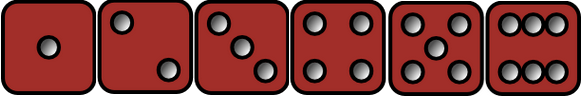
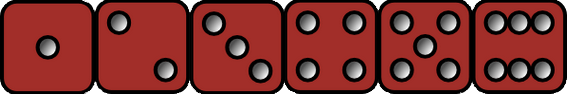
ahdf

diff --git a/catanui/Board.java b/catanui/Board.java
@@ -17,7 +17,30 @@ public class Board extends JFrame {
         //setLayout(new BoxLayout(getContentPane(), BoxLayout.X_AXIS));
         setLayout(null);
         
-        SideBar sd = new SideBar(gameLogic);
+        BoardObject.images.put(BoardObject.type.WHEAT, Toolkit.getDefaultToolkit().getImage("catanui/wheatcard.png"));
+        BoardObject.images.put(BoardObject.type.WOOD, Toolkit.getDefaultToolkit().getImage("catanui/woodcard.png"));
+        BoardObject.images.put(BoardObject.type.ORE, Toolkit.getDefaultToolkit().getImage("catanui/orecard.png"));
+        BoardObject.images.put(BoardObject.type.SHEEP, Toolkit.getDefaultToolkit().getImage("catanui/sheepcard.png"));
+        BoardObject.images.put(BoardObject.type.BRICK, Toolkit.getDefaultToolkit().getImage("catanui/brickcard.png"));
+        BoardObject.images.put(BoardObject.type.DEV, Toolkit.getDefaultToolkit().getImage("catanui/devcard.png"));
+	BoardObject.images.put(BoardObject.type.DICE, Toolkit.getDefaultToolkit().getImage("catanui/dice.png"));
+
+		BoardObject.coloredImages.put(BoardObject.type.SETTLEMENT, new Image[]{Toolkit.getDefaultToolkit().getImage("catanui/settlement_blue.png"),Toolkit.getDefaultToolkit().getImage("catanui/settlement_red.png"),Toolkit.getDefaultToolkit().getImage("catanui/settlement_green.png"),Toolkit.getDefaultToolkit().getImage("catanui/settlement_cyan.png"),Toolkit.getDefaultToolkit().getImage("catanui/settlement_yellow.png"),Toolkit.getDefaultToolkit().getImage("catanui/settlement_orange.png")});
+
+		BoardObject.coloredImages.put(BoardObject.type.CITY, new Image[]{Toolkit.getDefaultToolkit().getImage("catanui/city_blue.png"),Toolkit.getDefaultToolkit().getImage("catanui/city_red.png"),Toolkit.getDefaultToolkit().getImage("catanui/city_green.png"),Toolkit.getDefaultToolkit().getImage("catanui/city_cyan.png"),Toolkit.getDefaultToolkit().getImage("catanui/city_yellow.png"), Toolkit.getDefaultToolkit().getImage("catanui/city_orange.png")});
+       
+	MediaTracker tracker = new MediaTracker(this);
+	tracker.addImage(BoardObject.images.get(BoardObject.type.DICE),0);
+	for (BoardObject.type t : BoardObject.cardtypes) {
+		tracker.addImage(BoardObject.images.get(t),0);
+	}
+	try {
+		tracker.waitForAll();
+	} catch (InterruptedException ex) {
+		System.out.println("Non-fatal error loading images.");
+	}
+
+	        SideBar sd = new SideBar(gameLogic);
         sd.setSize(200,700); 
         
         MapPanel mp = new MapPanel(gameLogic);
@@ -52,20 +75,8 @@ public class Board extends JFrame {
         add(sd);
         add(cb);
         add(mp);
-        
-        
-        BoardObject.images.put(BoardObject.type.WHEAT, Toolkit.getDefaultToolkit().getImage("catanui/wheatcard.png"));
-        BoardObject.images.put(BoardObject.type.WOOD, Toolkit.getDefaultToolkit().getImage("catanui/woodcard.png"));
-        BoardObject.images.put(BoardObject.type.ORE, Toolkit.getDefaultToolkit().getImage("catanui/orecard.png"));
-        BoardObject.images.put(BoardObject.type.SHEEP, Toolkit.getDefaultToolkit().getImage("catanui/sheepcard.png"));
-        BoardObject.images.put(BoardObject.type.BRICK, Toolkit.getDefaultToolkit().getImage("catanui/brickcard.png"));
-        BoardObject.images.put(BoardObject.type.DEV, Toolkit.getDefaultToolkit().getImage("catanui/devcard.png"));
 
 
-		BoardObject.coloredImages.put(BoardObject.type.SETTLEMENT, new Image[]{Toolkit.getDefaultToolkit().getImage("catanui/settlement_blue.png"),Toolkit.getDefaultToolkit().getImage("catanui/settlement_red.png"),Toolkit.getDefaultToolkit().getImage("catanui/settlement_green.png"),Toolkit.getDefaultToolkit().getImage("catanui/settlement_cyan.png"),Toolkit.getDefaultToolkit().getImage("catanui/settlement_yellow.png"),Toolkit.getDefaultToolkit().getImage("catanui/settlement_orange.png")});
-
-		BoardObject.coloredImages.put(BoardObject.type.CITY, new Image[]{Toolkit.getDefaultToolkit().getImage("catanui/city_blue.png"),Toolkit.getDefaultToolkit().getImage("catanui/city_red.png"),Toolkit.getDefaultToolkit().getImage("catanui/city_green.png"),Toolkit.getDefaultToolkit().getImage("catanui/city_cyan.png"),Toolkit.getDefaultToolkit().getImage("catanui/city_yellow.png"), Toolkit.getDefaultToolkit().getImage("catanui/city_orange.png")});
-       
         setSize(1000, 722);
         setResizable(false);
         setDefaultCloseOperation(EXIT_ON_CLOSE);

diff --git a/catanui/MapPanel.java b/catanui/MapPanel.java
@@ -38,7 +38,7 @@ public class MapPanel extends JPanel implements MouseListener, MouseMotionListen
     int[] intervalSide = new int[]{(int)(radius/2),radius};
     int rings;
     private final int[] DIE_DIST = {2,3,4,4,5,5,5,6,6,8,8,9,9,9,10,10,11,12};
-    private BufferedImage diceImage = Toolkit.getDefaultToolkit().getImage("catanui/dice.png");
+    private BufferedImage diceImage;
     //Robot r;
 
     private ClientGameBoard gameLogic;
@@ -52,13 +52,12 @@ public class MapPanel extends JPanel implements MouseListener, MouseMotionListen
 	vertexContents = new HashMap<CoordPair,Pair>();
 	roadContents = new HashMap<Pair,Integer>();
         
-	/*try {
-            r = new Robot();
-        } catch (AWTException ex) {
-	    System.out.println("Robot no work.");
-        }*/
+	diceImage = new BufferedImage(582, 98, BufferedImage.TYPE_INT_ARGB);
+    	Graphics2D g = diceImage.createGraphics();
+    	g.drawImage(BoardObject.images.get(BoardObject.type.DICE), null, null);
+	g.dispose();
+
         rings = gameLogic.getNumRings();
-        
 	
 	hexleft = 100 - (int)(radius+(Math.floor(rings/2)*radius+Math.floor((rings-1)/2)*radius*2));
 	if (rings%2==0) {
@@ -72,7 +71,7 @@ public class MapPanel extends JPanel implements MouseListener, MouseMotionListen
 	HashMap<Pair,Pair> hexData = gameLogic.getHexInfo(); // call the gamelogic
 	
 	Pair currCoord = gameLogic.getStartPoint();
-	System.out.println(currCoord);
+
 	Pair topCoord = currCoord;
 
 	int ring = 0;
@@ -197,14 +196,16 @@ public class MapPanel extends JPanel implements MouseListener, MouseMotionListen
 		}
 	
 		g.setColor(Color.GRAY);
-		g.fill(new Rectangle(0,0,100,100));
+		g.fill(new Rectangle(0,0,110,60));
 		g.setColor(Color.LIGHT_GRAY);
-		g.fill(new Rectangle(10,10,80,80));
+		g.fill(new Rectangle(3,3,104,56));
 		if (_dieRoll > 0) {
 		    int r1 = (int)Math.max(Math.floor(Math.random()*Math.min(_dieRoll-1,5))+1,_dieRoll-6);
 		    int r2 = _dieRoll - r1;
-			BufferedImage r1img = diceImage.getSubImage((r1-1)*86,0,86,98);
-			BufferedImage r2img = diceImage.getSubImage((r2-1)*86,0,86,98);
+			BufferedImage r1img = diceImage.getSubimage((int)(Math.floor((r1-1)*94.7)),0,95,94);
+			g.drawImage(r1img,5,7,48,47,null);
+			BufferedImage r2img = diceImage.getSubimage((int)(Math.floor((r2-1)*94.7)),0,95,94);
+			g.drawImage(r2img,55,7,48,47,null);
 		}
         
         if (_up != null)

diff --git a/catanui/ChatBar.java b/catanui/ChatBar.java
@@ -14,7 +14,7 @@ import gamelogic.*;
  *
  * @author jfedor
  */
-public class ChatBar extends JPanel implements MouseListener, MouseMotionListener, ActionListener {
+public class ChatBar extends JPanel implements MouseListener, MouseMotionListener, MouseWheelListener, ActionListener {
     
     int _width = 800;
     int _height = 150;
@@ -28,11 +28,14 @@ public class ChatBar extends JPanel implements MouseListener, MouseMotionListene
 
     private boolean firstpaint = true;
 
+    private int _scroll;
+
     public ChatBar(ClientGameBoard gl) {
 		gameLogic = gl;
         gameLogic._chatBar = this;  
         addMouseListener(this);
         addMouseMotionListener(this);
+	addMouseWheelListener(this);
 	
     }
     
@@ -47,8 +50,6 @@ public class ChatBar extends JPanel implements MouseListener, MouseMotionListene
 			g.setColor(new Color(200,200,200));
 			g.fillRect(0, 5, _width - 5, _height - 10);
 			
-			g.setColor(new Color(255,255,255));
-			g.setFont(new Font("Arial", Font.BOLD, 15));
 
 			}
 		else {
@@ -61,17 +62,20 @@ public class ChatBar extends JPanel implements MouseListener, MouseMotionListene
 
 			g.fillRect(_height - 5, 5, _width - 5, 5);
 			
-			g.setColor(new Color(255,255,255));
-			g.setFont(new Font("Arial", Font.BOLD, 15));
+
 
 		}
 
-		int i = 0;
+		g.setColor(new Color(10,10,10));
+		g.setFont(new Font("Arial", Font.BOLD, 15));
+		int i = _scroll;
+		int j = 0;
 		while (i < text.size()) {
 			
-			g.drawString(text.get(text.size()-1-i), 10, (100-i*20));//110 - i*20);
+			g.drawString(text.get(text.size()-1-i), 10, (100-j*20));//110 - i*20);
 			
 			i++;
+			j++;
 		}
 		_textfield.repaint();
 
@@ -121,6 +125,17 @@ public class ChatBar extends JPanel implements MouseListener, MouseMotionListene
 
     @Override
     public void mouseMoved(MouseEvent me) {
+    }
+
+    @Override
+    public void mouseWheelMoved(MouseWheelEvent e) {
+
+	System.out.println(e.getWheelRotation());
+	_scroll -= e.getWheelRotation();
+	_scroll = Math.min(_scroll,text.size());
+	_scroll = Math.max(_scroll,0);
+	repaint();
+
     }
 
     @Override

diff --git a/catanui/BoardObject.java b/catanui/BoardObject.java
@@ -20,7 +20,7 @@ public interface BoardObject {
     public static HashMap<type,Image> images = new HashMap<type,Image>();
     public static HashMap<type,Image[]> coloredImages = new HashMap<type,Image[]>();
 
-    public enum type {WHEAT,ORE,WOOD,BRICK,SHEEP,DEV,SETTLEMENT,ROAD,CITY};
+    public enum type {WHEAT,ORE,WOOD,BRICK,SHEEP,DEV,SETTLEMENT,ROAD,CITY,DICE};
     
     public ArrayList<type> cardtypes = new ArrayList<type>(Arrays.asList(type.WHEAT,type.ORE,type.WOOD,type.BRICK,type.SHEEP));
 
